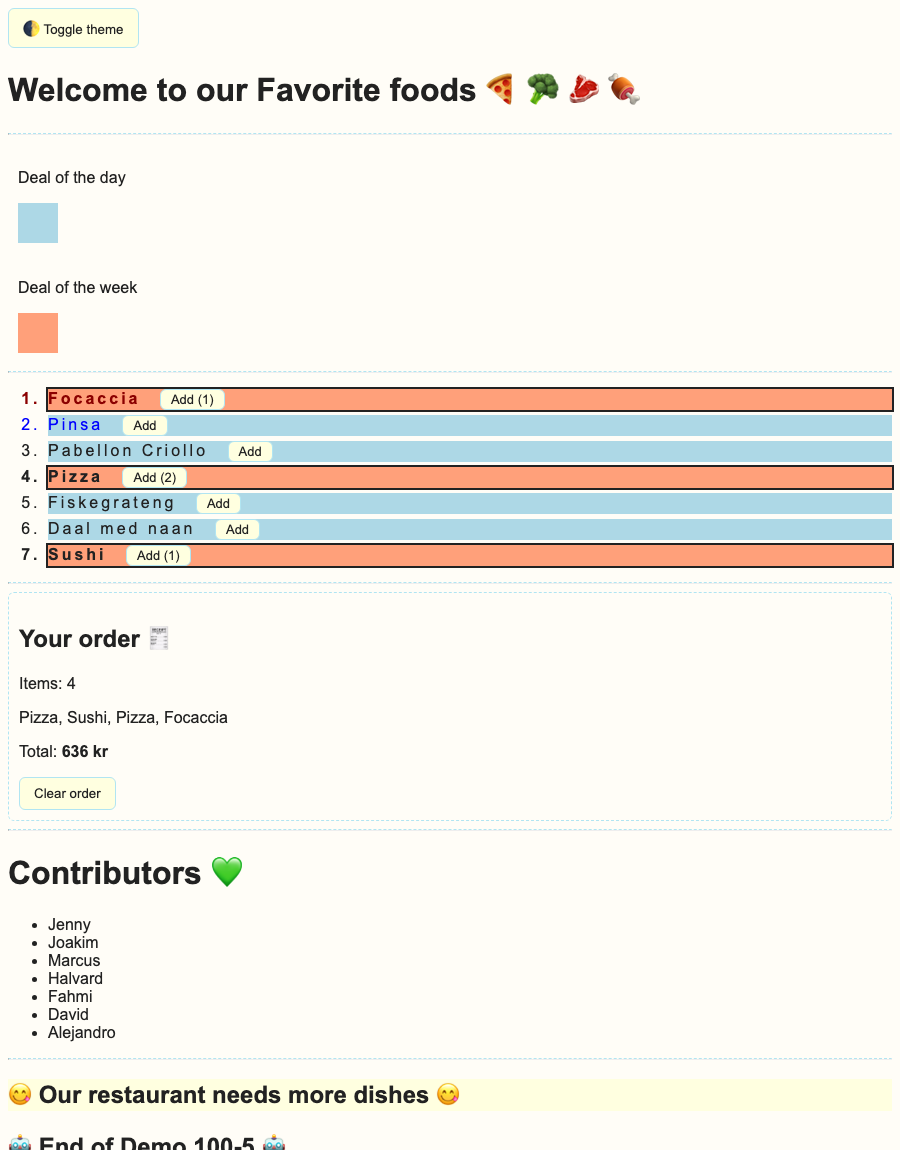
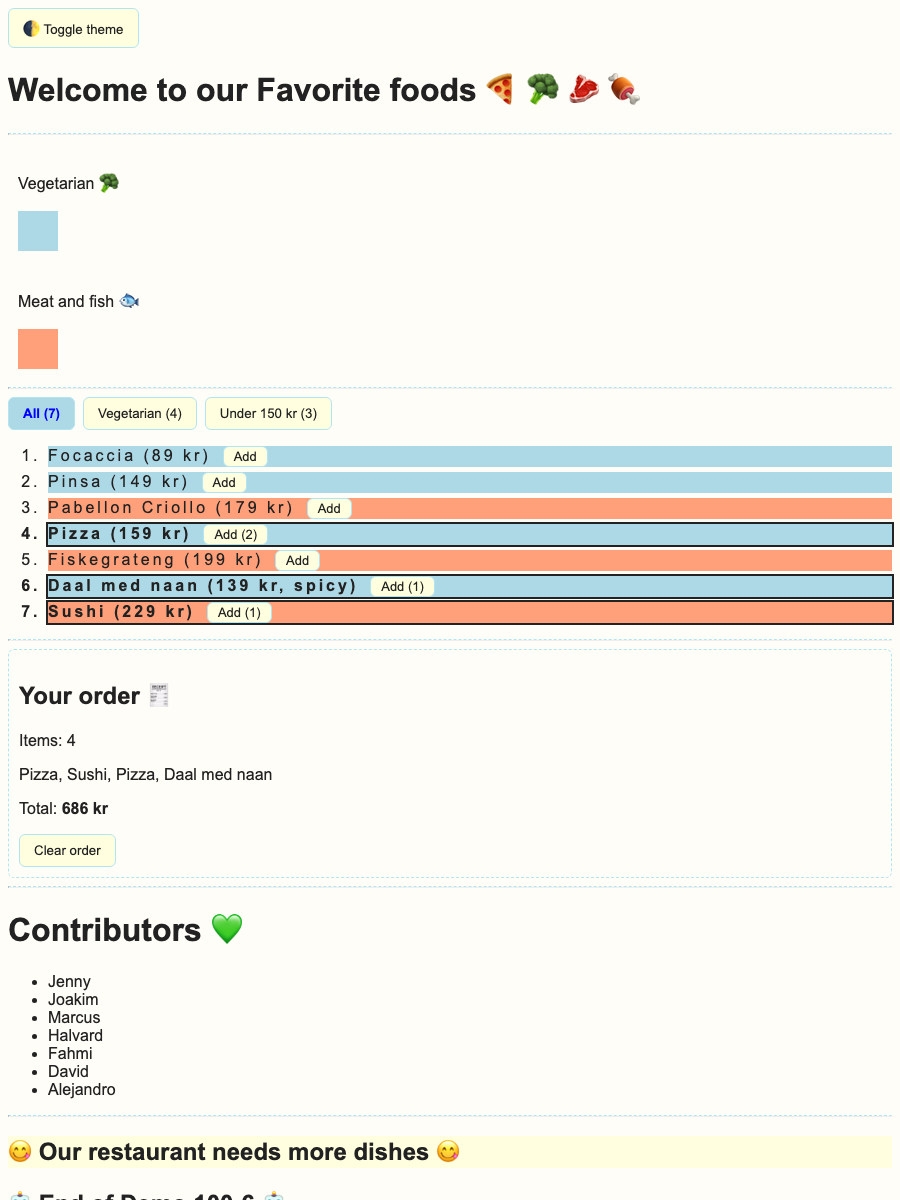
100-6-js-render-data-start: clarify TODO 1 hint, update result.png

diff --git a/index.js b/index.js
@@ -63,7 +63,7 @@ function render() {
 // TODO 1: Create and return an <li> for one dish. Do not add it to the page here.
 // a) const item = document.createElement('li');
 // b) Text: describeDish(dish). Class: "day-background" if vegetarian, else "week-background".
-// c) If the dish is in the order, also add the class "in-order". (order.some(...))
+// c) Count how many of this dish are in the order (order.filter(...).length). If more than 0, also add the class "in-order".
 // d) Create a <button> with the class "add-button", type "button", and data-id set to the dish id
 //    (button.dataset.id = dish.id). Its text: "Add", or "Add (2)" when 2 of this dish are in the order.
 // e) Put the button inside the <li> (item.append(button)) and return the <li>.
